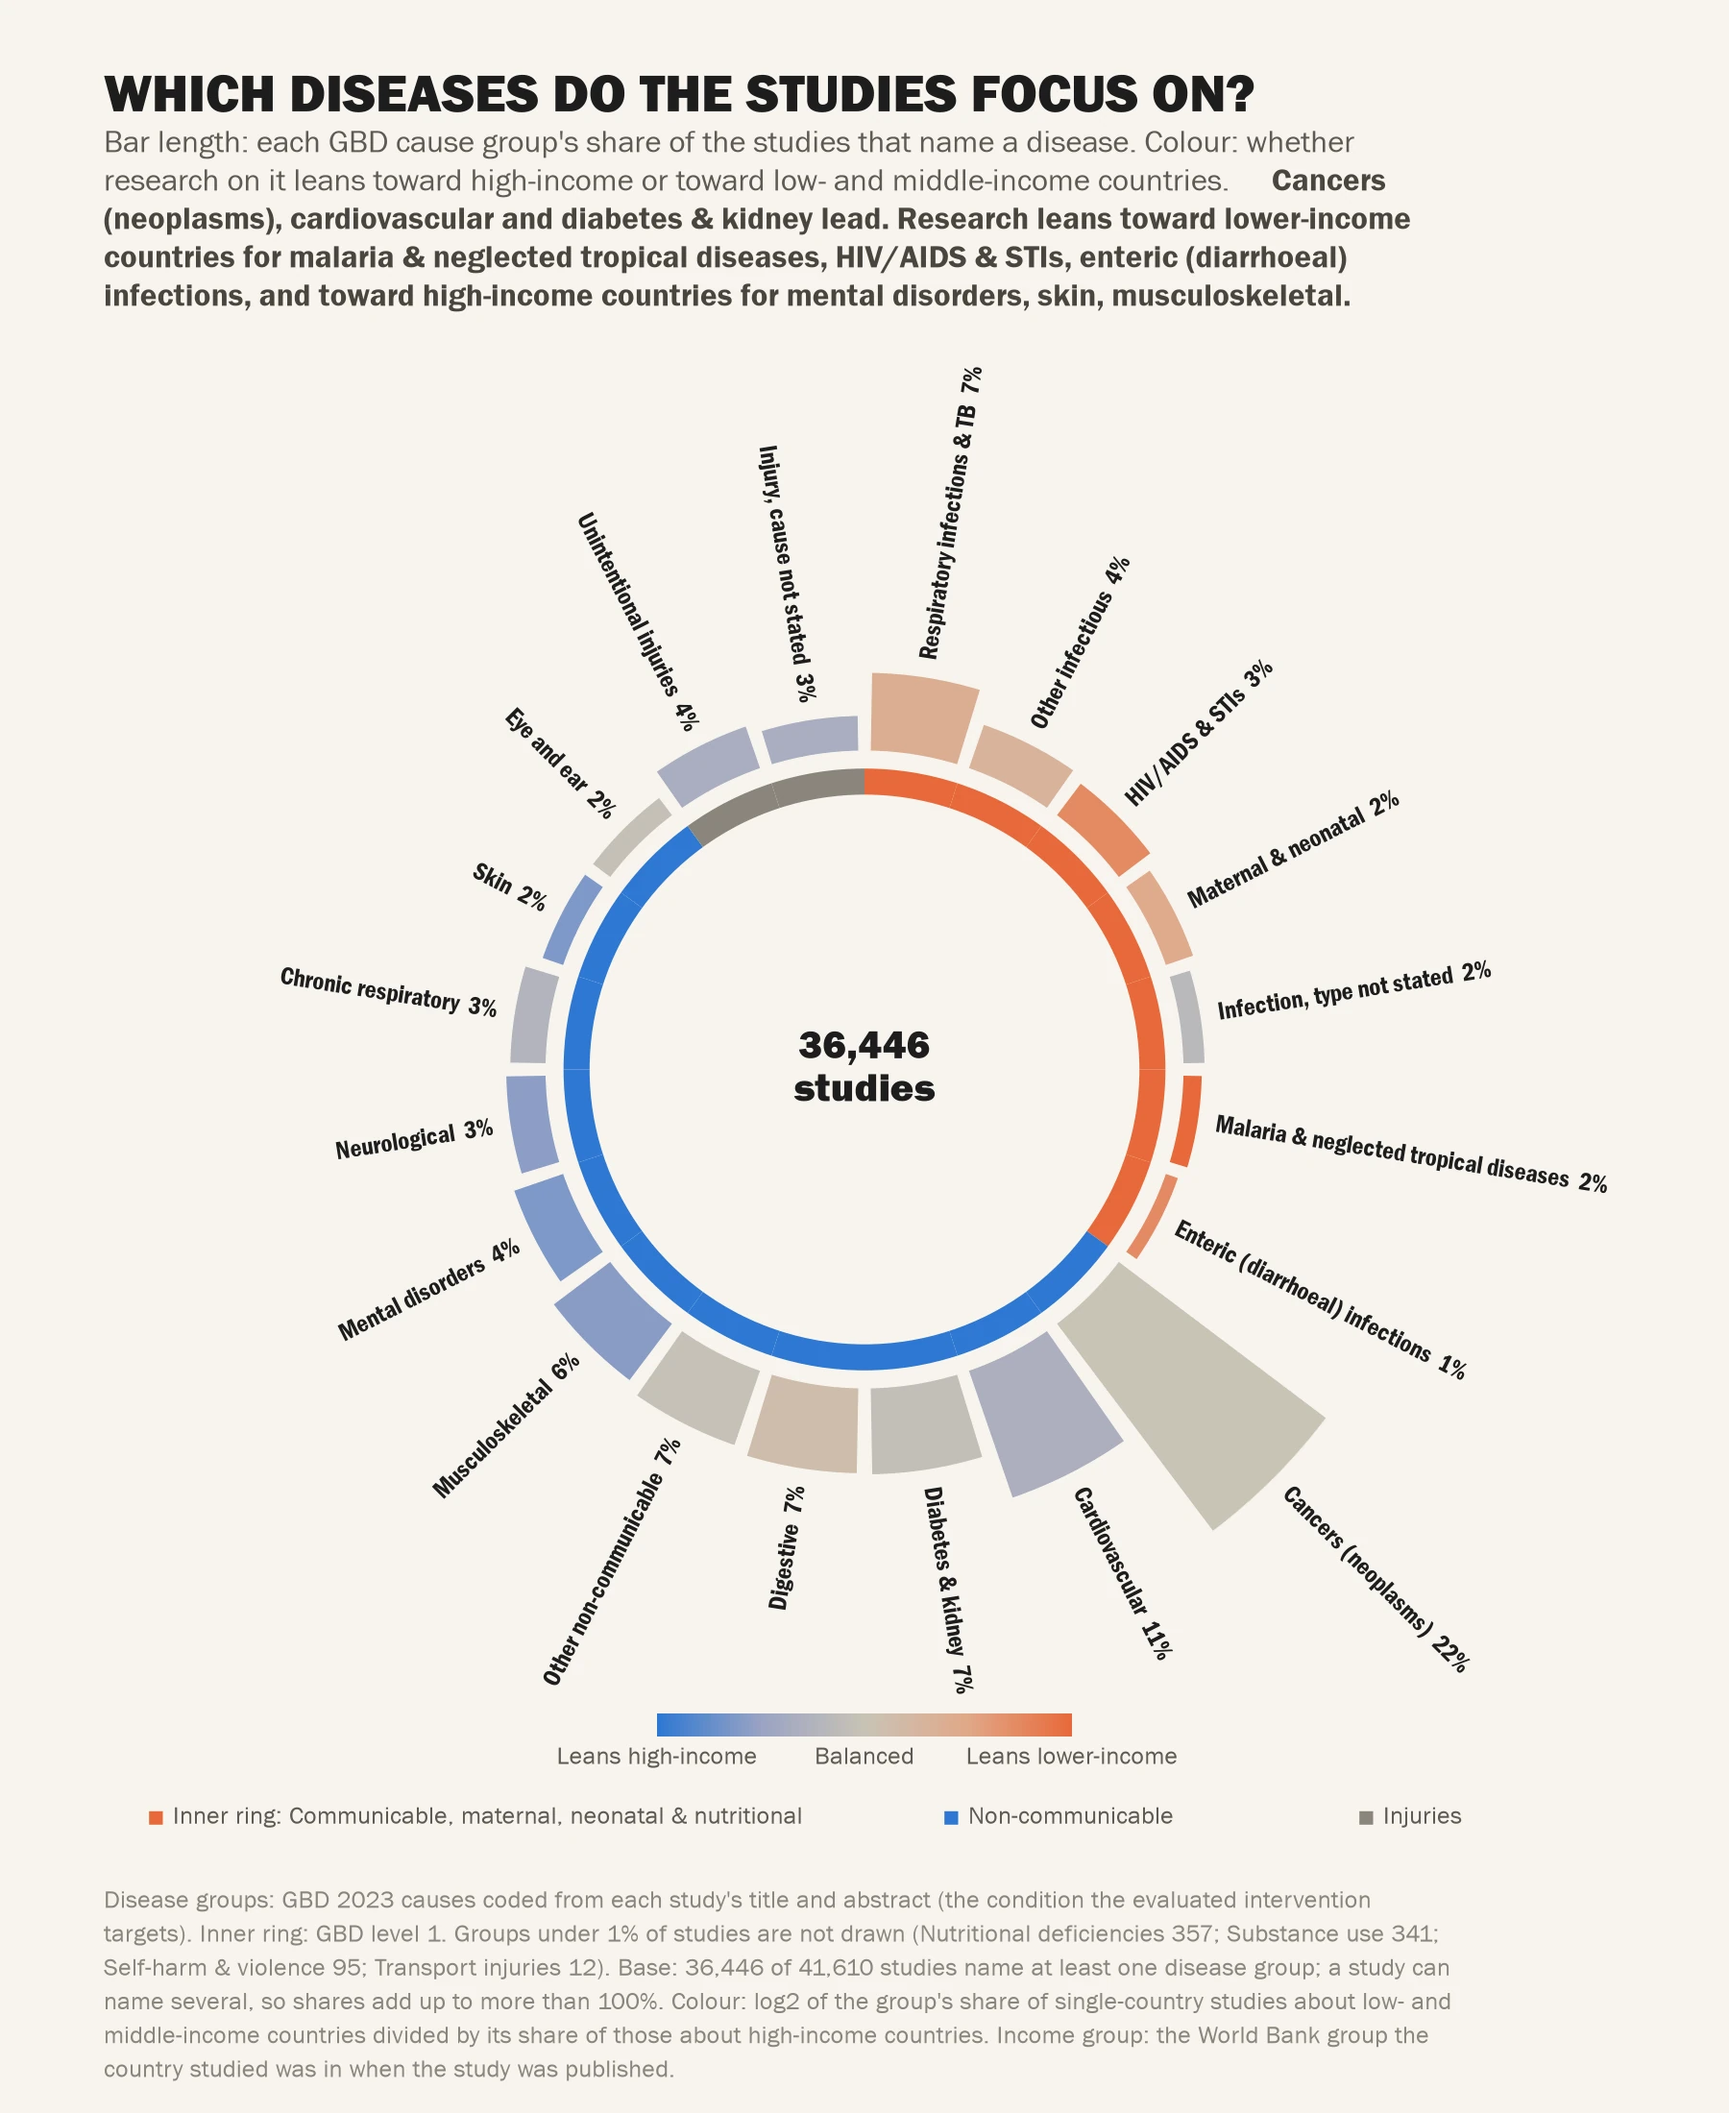
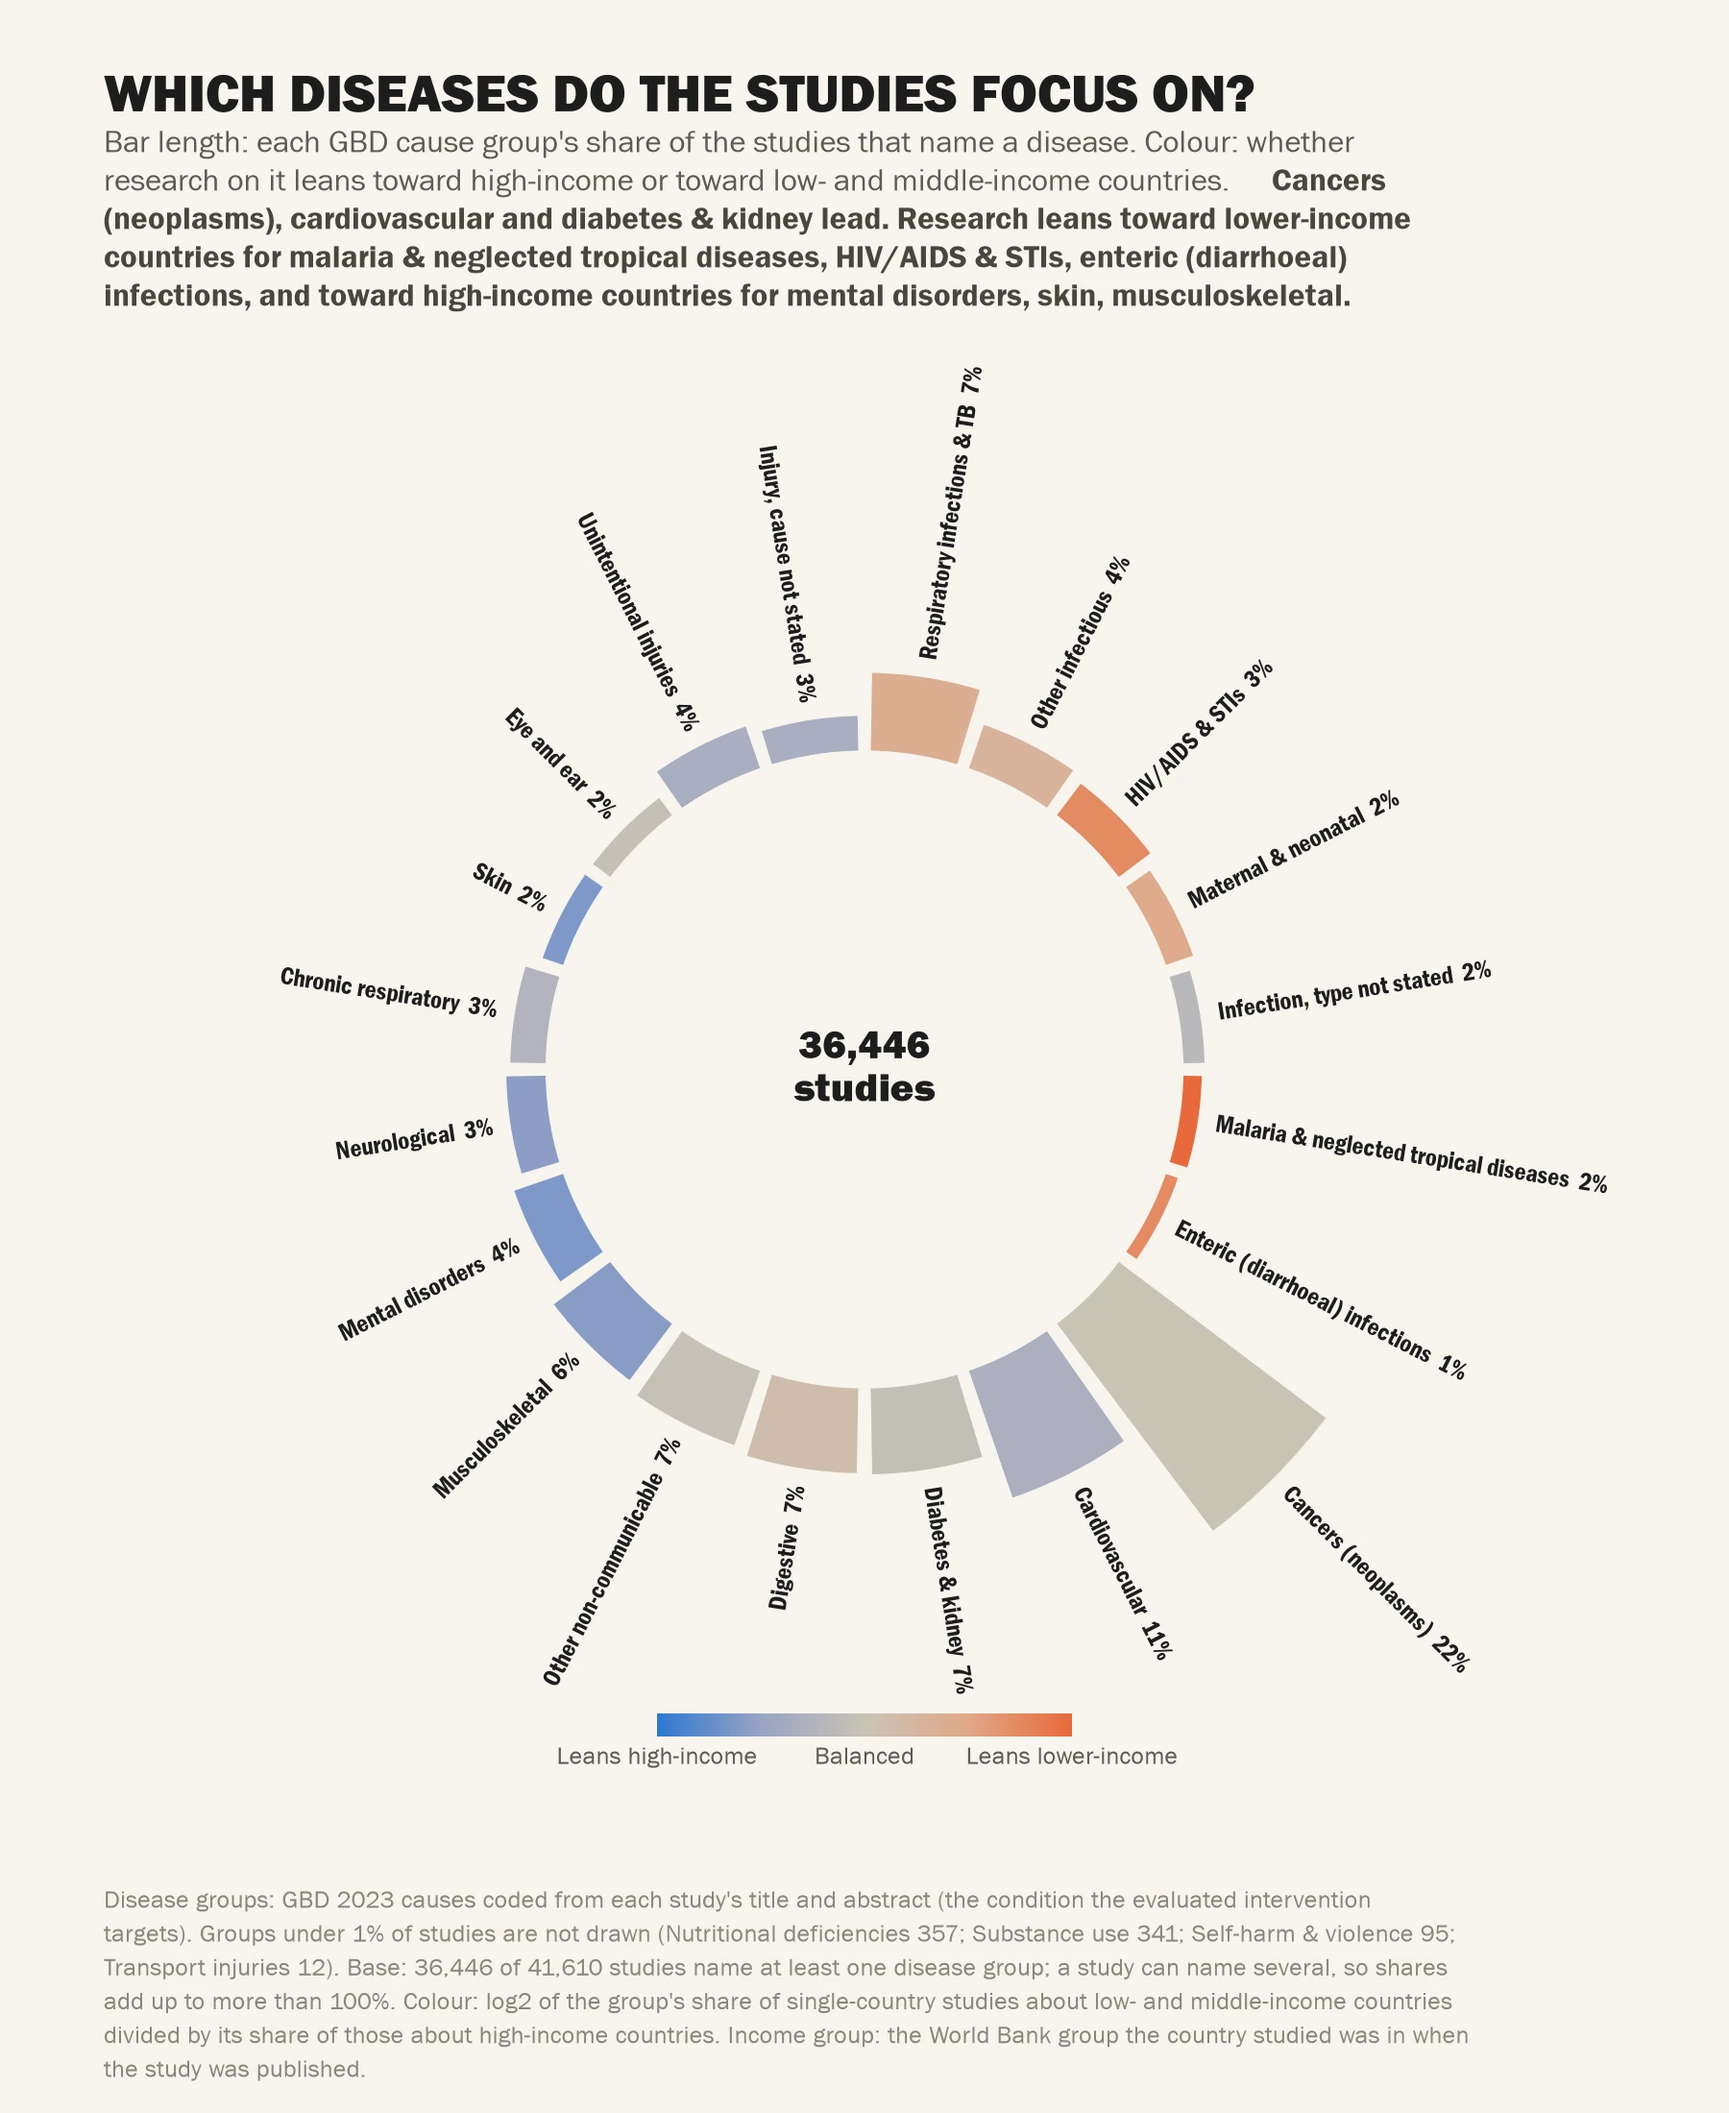
Disease circular figure: remove the GBD level-1 inner ring and its legend

diff --git a/scripts/build_gbd_figures.py b/scripts/build_gbd_figures.py
@@ -214,7 +214,6 @@ def circular(rows, l1):
     norm = TwoSlopeNorm(vcenter=0, vmin=-2, vmax=2)
     ax.bar(theta, [v * scale for v in vals], width=width - gap, bottom=inner,
            color=[cmap(norm(lean[g])) if lean[g] is not None else "#ddd" for g in order], edgecolor=BG, lw=.5)
-    ax.bar(theta, .045, width=width, bottom=inner - .075, color=[L1_COLOR[l1[g]] for g in order], lw=0)
     for t, g, v in zip(theta, order, vals):
         deg = math.degrees(t)
         rot = 90 - deg
@@ -232,12 +231,7 @@ def circular(rows, l1):
     cb.ax.set_xticklabels(["Leans high-income", "Balanced", "Leans lower-income"], fontsize=9.5, color=MUTED)
     cb.outline.set_visible(False)
     cb.ax.tick_params(length=0)
-    for k, blk in enumerate(("cmnn", "ncd", "inj")):
-        x0 = (.1, .56, .8)[k]
-        fig.text(x0, .14, "■ ", color=L1_COLOR[blk], fontsize=11, ha="right", va="center")
-        fig.text(x0, .14, ("Inner ring: " if not k else "") + L1_LABEL[blk].replace("\n", " "), color=MUTED,
-                 fontsize=9.5, va="center")
-    pf.footer(fig, f"{CODING} Inner ring: GBD level 1. Groups under 1% of studies are not drawn ("
+    pf.footer(fig, f"{CODING} Groups under 1% of studies are not drawn ("
                    + "; ".join(f"{LABEL[g]} {share[g]:,}" for g in small) + "). Base: "
                    f"{len(coded):,} of {len(rows):,} studies name at least one disease group; a study can name "
                    "several, so shares add up to more than 100%. Colour: log2 of the group's share of single-country "
